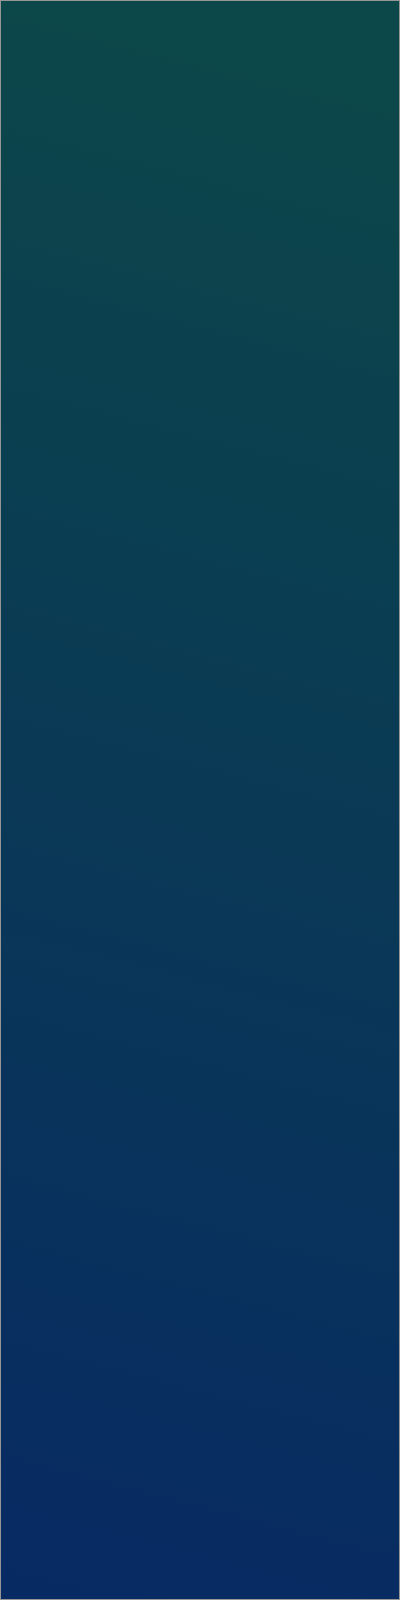
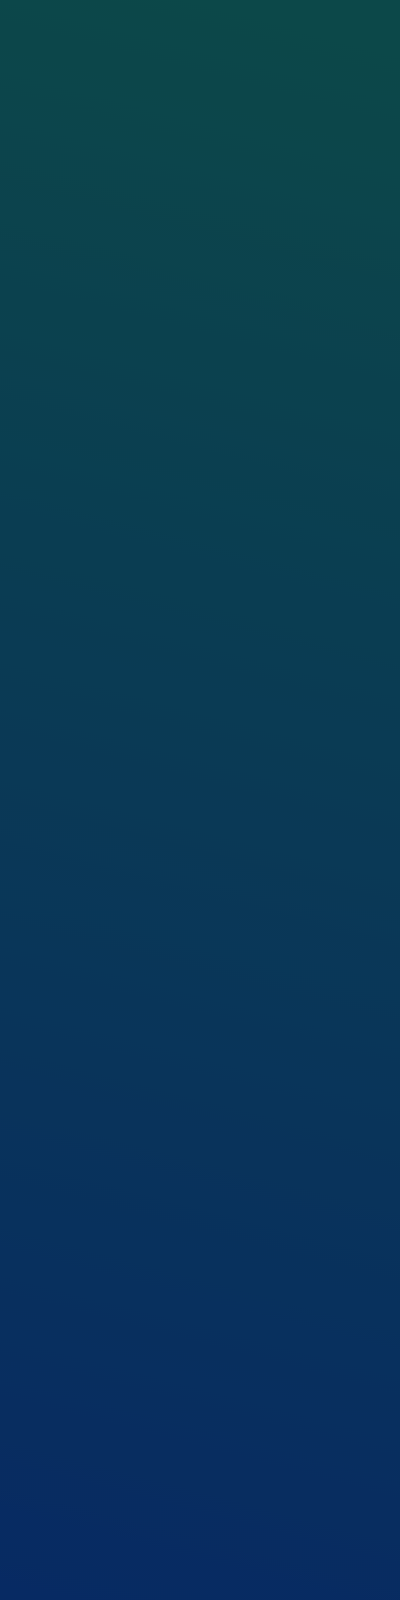
finish nav drawer except for active link indicator.

Changed region(s): [[0.99, 0.0, 1.0, 1.0], [0.0, 0.9688, 0.03, 1.0], [0.0, 0.0, 0.03, 0.0312]]

diff --git a/src/app/app.component.scss b/src/app/app.component.scss
@@ -28,10 +28,10 @@ nav ul a {
   color: $kord-text-color;
   background: url("../assets/images/nav_menu_background.png") no-repeat;
   background-color: $kord-html-background-color;
-  -webkit-background-size: cover;
-  -moz-background-size: cover;
-  -o-background-size: cover;
-  background-size: cover;
+  -webkit-background-size: 100% 100%;
+  -moz-background-size: 100% 100%;
+  -o-background-size: 100% 100%;
+  background-size: 100% 100%;
   box-shadow: none;
   overflow-y: hidden;
 }
@@ -41,10 +41,22 @@ nav ul a {
   color: $kord-text-color;
 }
 
+.no-bottom-margin {
+  margin-bottom: 0;
+}
+
+.circle-indicator {
+  position: absolute;
+  height: 20px;
+  width: 20px;
+  border-radius: 10px;
+  left: -10px;
+  background-color: $kord-accent-color;
+}
+
 .kord__sideNav--header {
   height: 48px;
-  padding-left: 48px;
-  margin-bottom: 12px;
+  margin: 12px 0 12px 26px;
 }
 
 .kord__transparentLogoContainer {
@@ -62,7 +74,7 @@ nav ul a {
 .kord__transparentLogo {
   width: 200px;
   height: auto;
-  opacity: 0.25;
+  opacity: 0.1;
 }
 
 .kordNavItems > li a {

diff --git a/src/app/app.component.html b/src/app/app.component.html
@@ -5,15 +5,11 @@
         <div class="kord__transparentLogoContainer"><img class="kord__transparentLogo" src="../assets/images/kordGlyphWhite.png"></div>
         <li>
           <div class="kord__sideNav--header">
-            <a routerLink="/download" class="brand-logo left"><img class="kordBrandLogo" src="../assets/KordBrandLogo.png"></a>
+            <a routerLink="/download" class="no-padding"><img class="kordBrandLogo" src="../assets/KordBrandLogo.png"></a>
           </div>
         </li>
-        <li>
-          <a routerLink="/download" class="">download</a>
-        </li>
-        <li>
-          <a routerLink="/resources" class="">resources</a>
-        </li>
+        <li><a routerLink="/download">download</a></li>
+        <li><a routerLink="/resources">resources</a></li>
       </ul>
       <a data-activates="slide-out"
          materialize="sideNav"

diff --git a/src/_variables.scss b/src/_variables.scss
@@ -1,6 +1,7 @@
 // Colors
 $kord-text-color:             #FFFFFF;
 $kord-html-background-color:  #0B2F5F;
+$kord-accent-color:           #4ABFC4;
 $transparent:                 rgba(0,0,0,0);
 
 
